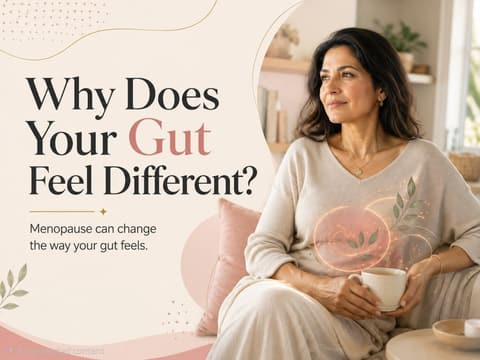
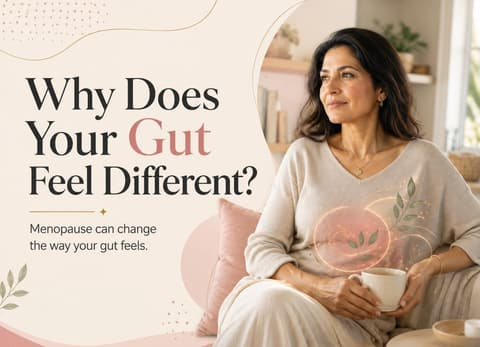
content: crop LinkedIn's AI label off the gut health graphics
LinkedIn bakes an "AI-generated content" label into images made with its
own tools, and it survived the republish. Both affected graphics carry it
low on the left over quiet background, so the label comes off by cropping
just below it: the cover loses 26px of its bottom margin and keeps the
ResetWell Plus logo, and the first inline graphic loses 37px. inline-2
never carried one. Nothing else in either image is touched.

Intrinsic height attributes are updated in both language editions so the
browser still reserves the right box and the page does not shift.

style: let the blog tag intro span the full container

It was capped at max-w-3xl while the post cards directly beneath it run
the full max-w-5xl, so the intro stopped short and left a gap down the
right of every indexed tag page.

diff --git a/src/content/blog/hi/menopause-and-gut-health.md b/src/content/blog/hi/menopause-and-gut-health.md
@@ -18,7 +18,7 @@ faq:
     a: "हर पाचन बदलाव हॉर्मोन की वजह से नहीं होता। पेट में लगातार दर्द, बिना वजह वज़न घटना, स्टूल में ख़ून, या मल त्याग की आदत में बड़ा और लंबा बदलाव हो तो डॉक्टर से मिलें, ताकि असली वजह मानी नहीं, जाँची जाए।"
 ---
 
-<img src="/blog/menopause-and-gut-health/cover.jpg" alt="पेट की सेहत और मेनोपॉज़: वह जुड़ाव जिसके बारे में महिलाओं को पता होना चाहिए" width="1279" height="720" srcset="/blog/menopause-and-gut-health/cover-480.jpg 480w, /blog/menopause-and-gut-health/cover.jpg 1279w" sizes="(max-width: 640px) 92vw, 680px" loading="lazy" />
+<img src="/blog/menopause-and-gut-health/cover.jpg" alt="पेट की सेहत और मेनोपॉज़: वह जुड़ाव जिसके बारे में महिलाओं को पता होना चाहिए" width="1279" height="694" srcset="/blog/menopause-and-gut-health/cover-480.jpg 480w, /blog/menopause-and-gut-health/cover.jpg 1279w" sizes="(max-width: 640px) 92vw, 680px" loading="lazy" />
 
 मेनोपॉज़ की बात चलती है तो चर्चा अक्सर [हॉट फ़्लैशेज़, मूड स्विंग्स और नींद न आने](/hindi/blog/3-most-common-menopause-symptoms/) तक ही सिमट जाती है, पाचन तक कम ही पहुँचती है।
 
@@ -28,7 +28,7 @@ faq:
 
 एस्ट्रोजन और प्रोजेस्टेरोन का काम प्रजनन तक सीमित नहीं है। मेनोपॉज़ के दौरान जब ये हॉर्मोन ऊपर-नीचे होते हैं और घटते हैं, तो शरीर के कई तंत्रों पर असर पड़ सकता है, और पाचन तंत्र उनमें से एक है।
 
-<img src="/blog/menopause-and-gut-health/inline-1.jpg" alt="आपका पेट अलग क्यों महसूस होता है? मेनोपॉज़ इस बात को बदल सकता है कि आपका पेट कैसा महसूस करता है" width="1333" height="1000" srcset="/blog/menopause-and-gut-health/inline-1-480.jpg 480w, /blog/menopause-and-gut-health/inline-1.jpg 1333w" sizes="(max-width: 640px) 92vw, 680px" loading="lazy" />
+<img src="/blog/menopause-and-gut-health/inline-1.jpg" alt="आपका पेट अलग क्यों महसूस होता है? मेनोपॉज़ इस बात को बदल सकता है कि आपका पेट कैसा महसूस करता है" width="1333" height="963" srcset="/blog/menopause-and-gut-health/inline-1-480.jpg 480w, /blog/menopause-and-gut-health/inline-1.jpg 1333w" sizes="(max-width: 640px) 92vw, 680px" loading="lazy" />
 
 ये हॉर्मोनल बदलाव पाचन, आँतों की चाल और उनके भीतर के सूक्ष्मजीवों के संतुलन पर असर डाल सकते हैं। नतीजा धीमा पाचन, क़ब्ज़, पेट फूलना और मल त्याग की बदली हुई आदतें हो सकता है।
 

diff --git a/src/content/blog/menopause-and-gut-health.md b/src/content/blog/menopause-and-gut-health.md
@@ -19,7 +19,7 @@ faq:
     a: "Not every digestive change is hormonal. See a doctor for persistent abdominal pain, unexplained weight loss, blood in the stool, or a major lasting change in bowel habits, so the real cause is identified rather than assumed."
 ---
 
-<img src="/blog/menopause-and-gut-health/cover.jpg" alt="Gut Health and Menopause: the connection women should know about" width="1279" height="720" srcset="/blog/menopause-and-gut-health/cover-480.jpg 480w, /blog/menopause-and-gut-health/cover.jpg 1279w" sizes="(max-width: 640px) 92vw, 680px" loading="lazy" />
+<img src="/blog/menopause-and-gut-health/cover.jpg" alt="Gut Health and Menopause: the connection women should know about" width="1279" height="694" srcset="/blog/menopause-and-gut-health/cover-480.jpg 480w, /blog/menopause-and-gut-health/cover.jpg 1279w" sizes="(max-width: 640px) 92vw, 680px" loading="lazy" />
 
 Whenever menopause comes up, the conversation tends to land on [hot flashes, mood swings and insomnia](/blog/3-most-common-menopause-symptoms/), rarely on digestion.
 
@@ -29,7 +29,7 @@ Yet digestive trouble is common for many women moving through [perimenopause and
 
 The effects of estrogen and progesterone go well beyond reproduction. When these hormones fluctuate and fall during menopause, they can influence several body systems, the digestive system among them.
 
-<img src="/blog/menopause-and-gut-health/inline-1.jpg" alt="Why does your gut feel different? Menopause can change the way your gut feels" width="1333" height="1000" srcset="/blog/menopause-and-gut-health/inline-1-480.jpg 480w, /blog/menopause-and-gut-health/inline-1.jpg 1333w" sizes="(max-width: 640px) 92vw, 680px" loading="lazy" />
+<img src="/blog/menopause-and-gut-health/inline-1.jpg" alt="Why does your gut feel different? Menopause can change the way your gut feels" width="1333" height="963" srcset="/blog/menopause-and-gut-health/inline-1-480.jpg 480w, /blog/menopause-and-gut-health/inline-1.jpg 1333w" sizes="(max-width: 640px) 92vw, 680px" loading="lazy" />
 
 Those hormonal changes can affect digestion, the movement of the gut, and the microbial balance inside it. The result can be slower digestion, constipation, bloating and altered bowel habits.
 
